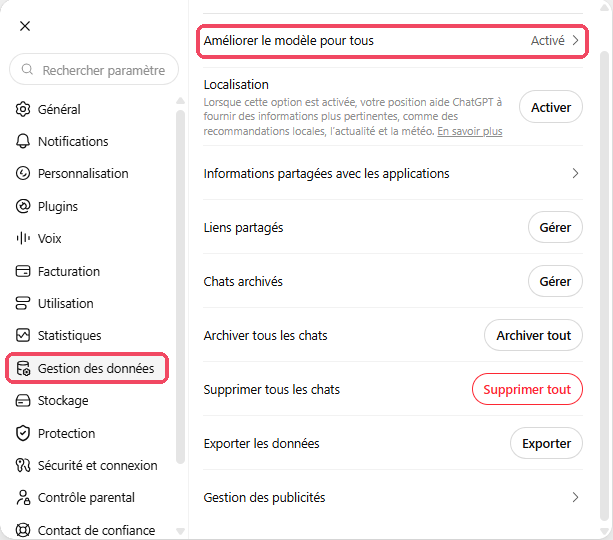
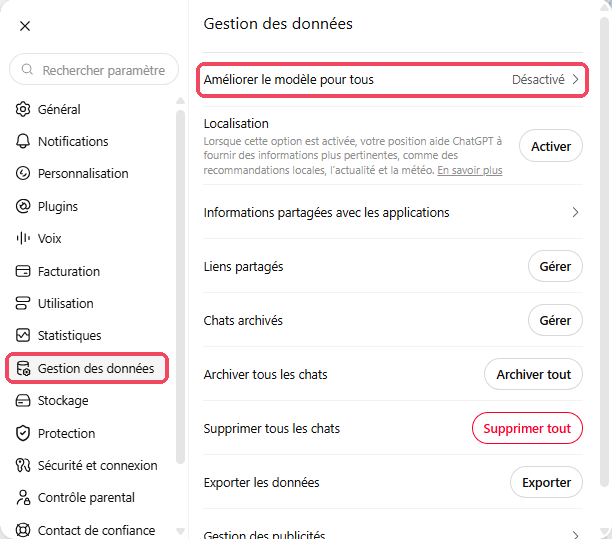
Fiche ChatGPT : étapes Personnalisation, Gestion des données, Chat éphémère et cas d'usage Encadrer un projet
Claude-Session: https://claude.ai/code/session_01ADR9hzhyEw6Dc3N18BUyt5

diff --git a/docs/assistants/chatgpt.md b/docs/assistants/chatgpt.md
@@ -15,6 +15,7 @@
 
 - **Analyser des données** : tracer et commenter des mesures de TP à partir d'un tableur.
 - **Concevoir des études de cas** et des mises en situation professionnelles.
+- **Encadrer un projet** : sujets, calendrier, checklist de suivi pour les étudiants.
 - **Expliquer une notion autrement** : analogies, niveaux de difficulté, exemples concrets.
 - **S'entraîner à l'oral**, en français ou en anglais, grâce au mode vocal.
 - **Illustrer un support** : images, pictogrammes, visuels d'introduction.
@@ -53,6 +54,29 @@ Le compte gratuit permet de discuter avec ChatGPT sur le web, sur ordinateur et 
     la chronologie, les documents dont disposent les élèves,
     3 questions d'analyse et les éléments de réponse attendus
     dans un corrigé séparé.
+    ```
+
+=== "Encadrer un projet"
+
+    **Exemple** : un projet de groupe de 6 semaines en génie de l'environnement, en 1re année.
+
+    Commencez par demander des idées de sujets :
+
+    ```
+    Propose 4 sujets de projets en génie de l'environnement
+    pour des élèves ingénieurs de 1re année, réalisables en
+    6 semaines par groupes de 4. Pour chaque sujet, indique un
+    titre, la problématique en deux phrases et les compétences
+    mobilisées.
+    ```
+
+    Puis joignez votre guide de projet et demandez un outil de suivi pour les étudiants :
+
+    ```
+    En t'appuyant uniquement sur ce guide, rédige une checklist
+    semaine par semaine pour les étudiants : pour chaque
+    semaine, les tâches à réaliser, le livrable attendu et un
+    point de vigilance.
     ```
 
 === "Expliquer autrement"
@@ -264,21 +288,37 @@ Vous retrouverez ensuite le projet sous **Projets**, dans la barre latérale.
 
 Vous pouvez indiquer une fois pour toutes qui vous êtes et comment vous souhaitez que ChatGPT vous réponde. Il en tiendra compte dans toutes vos conversations.
 
-1. Cliquez sur votre nom en bas à gauche, puis sur **Paramètres**. Une fenêtre s'ouvre, avec un menu à gauche.
-2. Dans ce menu, cliquez sur **Personnalisation**.
-3. Dans la zone des instructions personnalisées, décrivez votre situation et vos attentes, par exemple :
+1. Cliquez sur votre nom en bas à gauche, puis sur **Personnalisation**.
+
+    ![Menu du compte, option Personnalisation](chatgpt-11-menu.png)
+
+2. La fenêtre des paramètres s'ouvre sur la page **Personnalisation**. Descendez jusqu'à la zone **Instructions personnalisées** et écrivez-y vos consignes, par exemple :
 
     ```
-    Je suis enseignant-chercheur en génie des procédés dans une
-    école d'ingénieurs. J'enseigne à des élèves de bac+3 à bac+5
-    et je mène des recherches sur le traitement des eaux.
-    Réponds en français, de façon structurée et concise.
-    Distingue les faits établis des hypothèses, cite tes sources
-    quand c'est possible et signale toujours les points à
-    vérifier.
+    Réponds en français, de façon structurée et concise, avec
+    un vocabulaire scientifique précis.
+    Pour mes enseignements : propose des contenus adaptés au
+    niveau indiqué, avec des objectifs d'apprentissage formulés
+    par des verbes d'action, des exemples tirés de cas
+    industriels réels et des activités qui font participer les
+    étudiants.
+    Pour la recherche : distingue clairement les faits établis,
+    les résultats discutés et tes propres hypothèses. Ne jamais
+    inventer de référence bibliographique : si tu n'es pas sûr
+    d'une source, dis-le.
+    Signale toujours les points à vérifier, en particulier les
+    calculs, les chiffres, les dates et les normes.
+    Si ma demande est ambiguë, pose-moi une question avant de
+    répondre.
+    N'hésite pas à me contredire ou à relever une faiblesse dans
+    mon raisonnement.
     ```
 
-![Menu des paramètres, rubrique Personnalisation](chatgpt-11-personnalisation.png)
+3. Cliquez sur **Enregistrer**.
+
+Plus haut sur la même page, la rubrique **Caractéristiques** permet aussi de régler la **Chaleur**, l'**Enthousiasme**, les **Titres et listes** et les **Émojis** des réponses (**Par défaut** si vous n'y touchez pas).
+
+![Zone Instructions personnalisées](chatgpt-11-personnalisation.png)
 
 </div>
 
@@ -288,9 +328,12 @@ Vous pouvez indiquer une fois pour toutes qui vous êtes et comment vous souhait
 
 Par défaut, OpenAI peut utiliser vos conversations pour améliorer ses modèles. Désactivez ce réglage.
 
-1. Ouvrez les **Paramètres** comme à l'étape précédente (votre nom en bas à gauche, puis **Paramètres**).
+1. Cliquez sur votre nom en bas à gauche, puis sur **Paramètres**. Une fenêtre s'ouvre, avec un menu à gauche.
+
+    ![Menu du compte, option Paramètres](chatgpt-12-menu.png)
+
 2. Dans le menu de gauche, cliquez sur **Gestion des données**.
-3. La ligne **Améliorer le modèle pour tous** indique **Activé** : cliquez dessus, puis désactivez l'option.
+3. Cliquez sur la ligne **Améliorer le modèle pour tous**, puis désactivez l'option. La ligne doit ensuite indiquer **Désactivé**.
 
 Sur la même page, vous pouvez aussi :
 
@@ -303,10 +346,21 @@ Sur la même page, vous pouvez aussi :
 
 </div>
 
-<!--
-Étape restant à rédiger (capture attendue) :
-13. Utiliser une conversation temporaire
--->
+<div class="etape" markdown>
+
+### <span class="etape-num">13</span> Utiliser un chat éphémère
+
+Pour une demande que vous ne souhaitez pas conserver, utilisez un **chat éphémère**. Il n'apparaît pas dans votre historique et n'est pas utilisé pour entraîner les modèles d'OpenAI. OpenAI peut toutefois le conserver jusqu'à 30 jours pour des raisons de sécurité.
+
+1. Dans la barre latérale, cliquez sur **Nouveau chat**.
+2. En haut à droite, cliquez sur l'icône en forme de cercle : l'info-bulle **Chat éphémère** s'affiche au survol.
+3. Écrivez votre demande comme d'habitude.
+
+Pensez à copier ce qui vous intéresse avant de fermer le chat éphémère : vous ne pourrez pas le retrouver ensuite.
+
+![Icône Chat éphémère](chatgpt-13-chat-ephemere.png)
+
+</div>
 
 ## Ressources officielles
 
